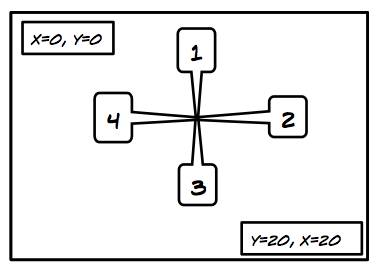
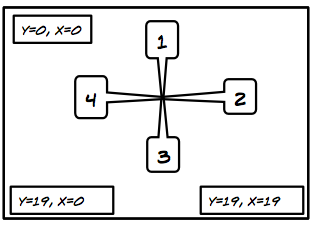
Update of schedule. Better board image Added splash page.

Changed region(s): [[0.0, 0.0, 1.0, 0.9956]]

diff --git a/presentation/slides/slide2.html b/presentation/slides/slide2.html
@@ -5,7 +5,7 @@
         <th>Introduksjon</th><td class="time">15 minutter</td>
     </tr>
     <tr>
-        <th>Oppgavel&oslash;sing</th><td class="time">60 minutter</td>
+        <th>Oppgavel&oslash;sing</th><td class="time">90 minutter</td>
     </tr>
     <tr>
         <th>Innlevering av oppgave og pause</th><td class="time">10 minutter</td>
@@ -14,16 +14,13 @@
         <th>Kj&oslash;ring av innlevert oppgave</th><td class="time">5 minutter</td>
     </tr>
     <tr>
-        <th>Oppgavel&oslash;sing</th><td class="time">45 minutter</td>
+        <th>Finpuss av oppgave</th><td class="time">50 minutter</td>
     </tr>
     <tr>
-        <th>Innlevering av oppgave og pause</th><td class="time">10 minutter</td>
+        <th>Innlevering av oppgave og pause</th><td class="time">5 minutter</td>
     </tr>
     <tr>
         <th>Kj&oslash;ring av innlevert oppgave</th><td class="time">5 minutter</td>
-    </tr>
-    <tr>
-        <th>Andre oppgaver</th><td class="time">45 minutter</td>
     </tr>
 </table>
 

diff --git a/Splash page.html b/Splash page.html
@@ -1,0 +1,8 @@
+<html><head><title>Splash page</title></head><body>
+<h1>Choose your fate</h1>
+<ul>
+<li><a href="src/playground.html">Javascript Battle</a>
+</li><li><a href="src/testground.html">Unit tests</a>
+</li><li><a href="presentation/presentation.html">Presentation (Norwegian)</a>
+</li></ul>
+</body></html>
